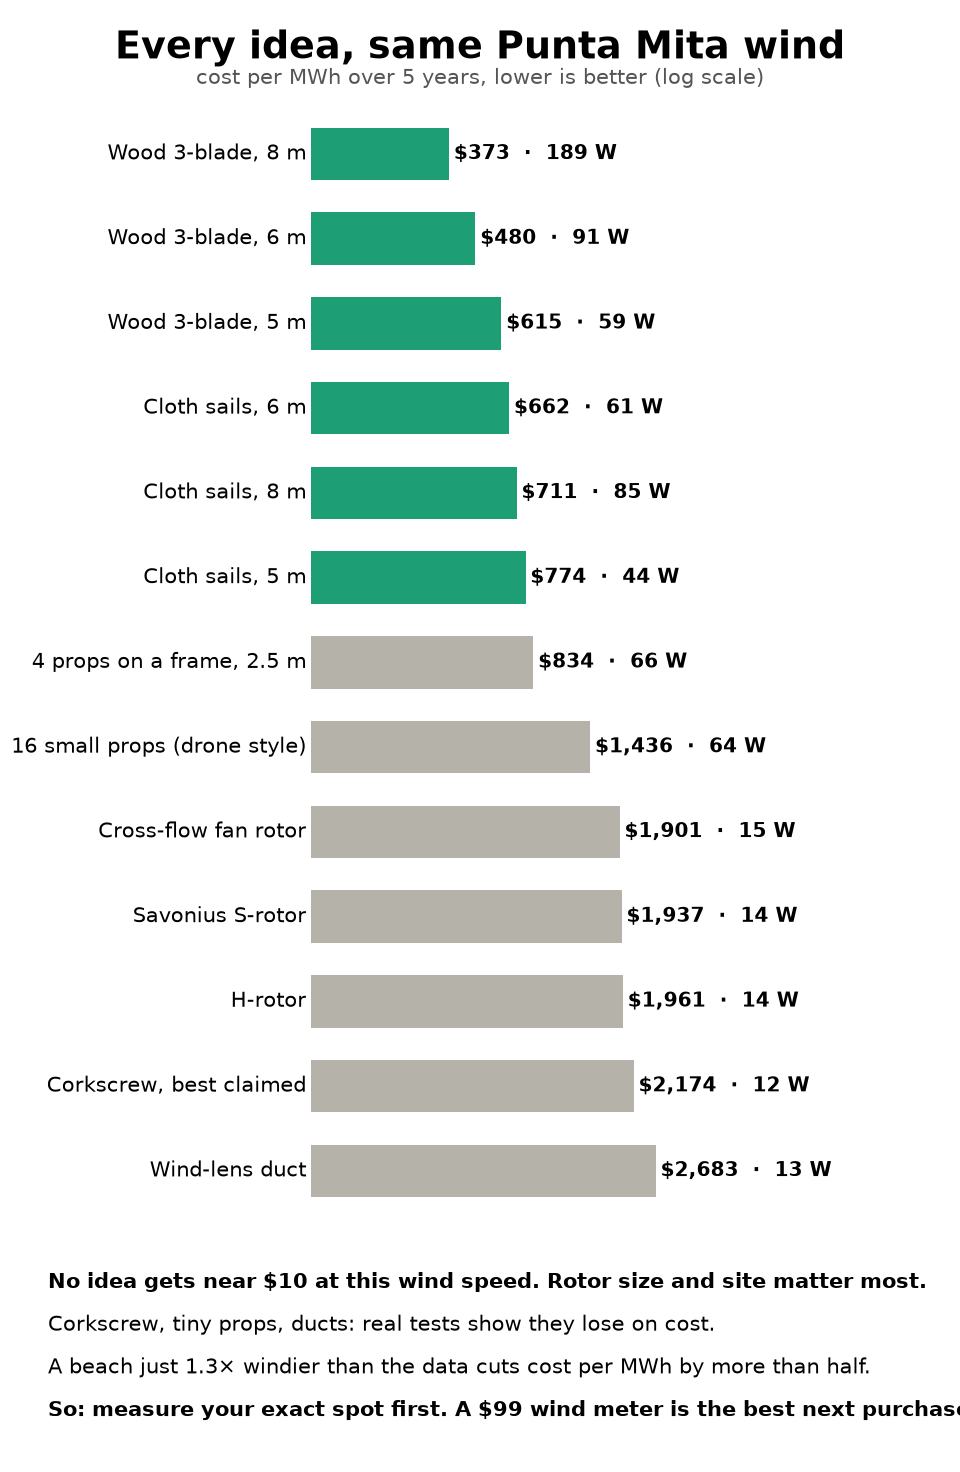
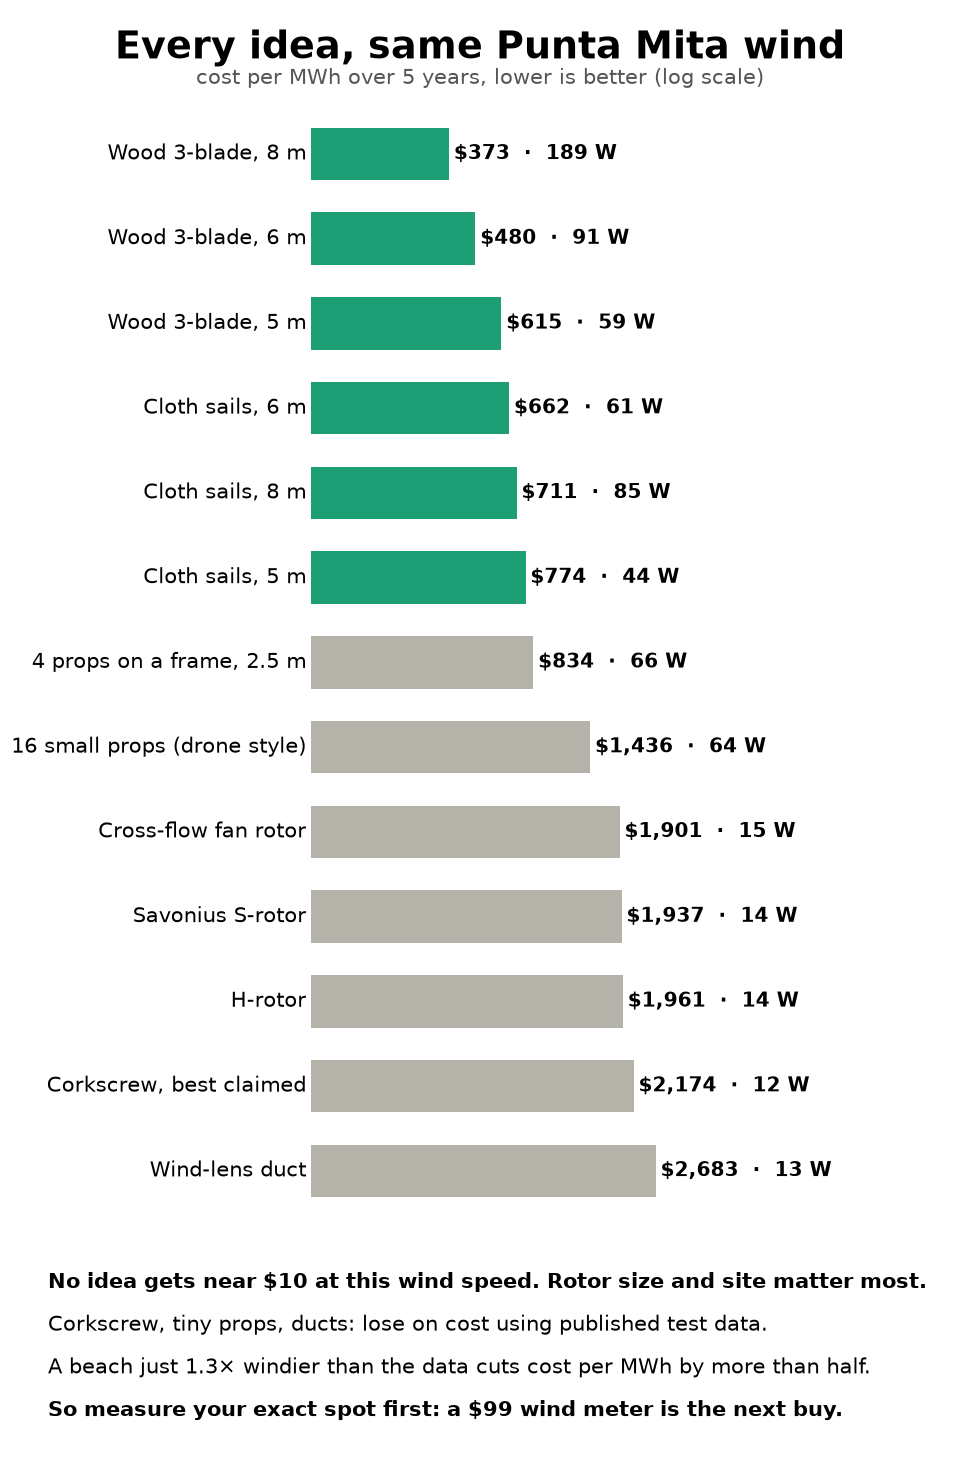
Fix ranking picture text

Changed region(s): [[0.0938, 0.9375, 1.0, 0.9688], [0.375, 0.875, 0.7812, 0.9062]]

diff --git a/models/zoo3.py b/models/zoo3.py
@@ -22,6 +22,6 @@ for i, r in enumerate(S):
     ax.barh(y, math.log10(r["usd_per_MWh"]) - 2, left=2, color=col, height=.62); ax.text(1.98, y, r["name"], ha="right", va="center", fontsize=9.3)
     ax.text(math.log10(r["usd_per_MWh"]) + .02, y, f"{D}{r['usd_per_MWh']:,.0f}  ·  {r['avg_W']:.0f} W", va="center", fontsize=8.8, weight="bold")
 ax.set_xlim(.75, 4.65); ax.set_ylim(.4, len(S) + .6); ax.axis("off"); fig.subplots_adjust(left=.01, right=.99, top=.93, bottom=.17)
-for j, (t, w) in enumerate((("No idea gets near $10 at this wind speed. Rotor size and site matter most.", "bold"), ("Corkscrew, tiny props, ducts: real tests show they lose on cost.", "normal"), ("A beach just 1.3× windier than the data cuts cost per MWh by more than half.", "normal"), ("So: measure your exact spot first. A $99 wind meter is the best next purchase.", "bold"))):
+for j, (t, w) in enumerate((("No idea gets near $10 at this wind speed. Rotor size and site matter most.", "bold"), ("Corkscrew, tiny props, ducts: lose on cost using published test data.", "normal"), ("A beach just 1.3× windier than the data cuts cost per MWh by more than half.", "normal"), ("So measure your exact spot first: a $99 wind meter is the next buy.", "bold"))):
     fig.text(.05, .125 - j * .029, t.replace("$", D), fontsize=9.6, weight=w)
 fig.savefig("out/zoo_rank.png")
